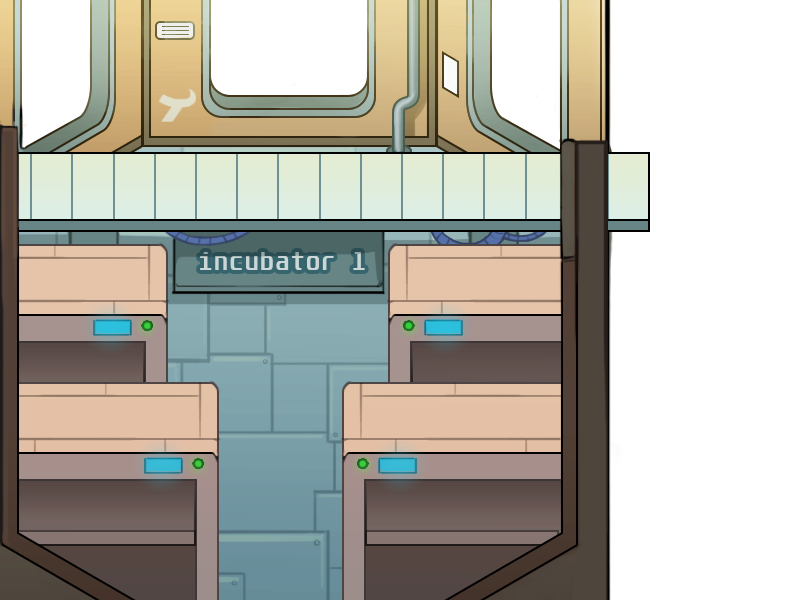
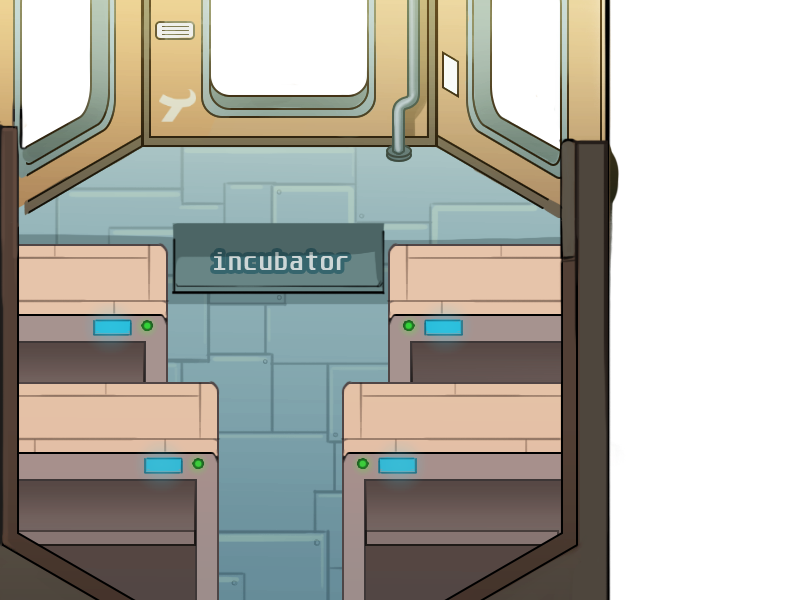
Добавил движение конвейера в инкубаторе

Changed region(s): [[0.0, 0.24, 0.7188, 0.48], [0.75, 0.24, 0.8125, 0.39]]

diff --git a/src/stages/rooms/incubator-room.stage.js b/src/stages/rooms/incubator-room.stage.js
@@ -94,6 +94,15 @@ export class IncubatorRoomStage extends AbstractRootStage {
         this.eggshellSprite = new Sprite(this, 1, [
             'public/images/rooms/backgrounds/details/incubator/eggshell.png',
         ]);
+
+        const conveyor = new Sprite(this, 1, [
+            'public/images/rooms/backgrounds/details/incubator/conveyor_1.png',
+            'public/images/rooms/backgrounds/details/incubator/conveyor_2.png',
+            'public/images/rooms/backgrounds/details/incubator/conveyor_3.png',
+        ]);
+        conveyor.forever(() => {
+            conveyor.nextCostume();
+        }, 200);
     }
 
     control() {

diff --git a/src/stages/rooms/sorting-room.stage.js b/src/stages/rooms/sorting-room.stage.js
@@ -95,7 +95,7 @@ export class SortingRoomStage extends AbstractRootStage {
         ]);
         conveyor.forever(() => {
             conveyor.nextCostume();
-        }, 120);
+        }, 200);
 
         this.forever(this.control());
     }
